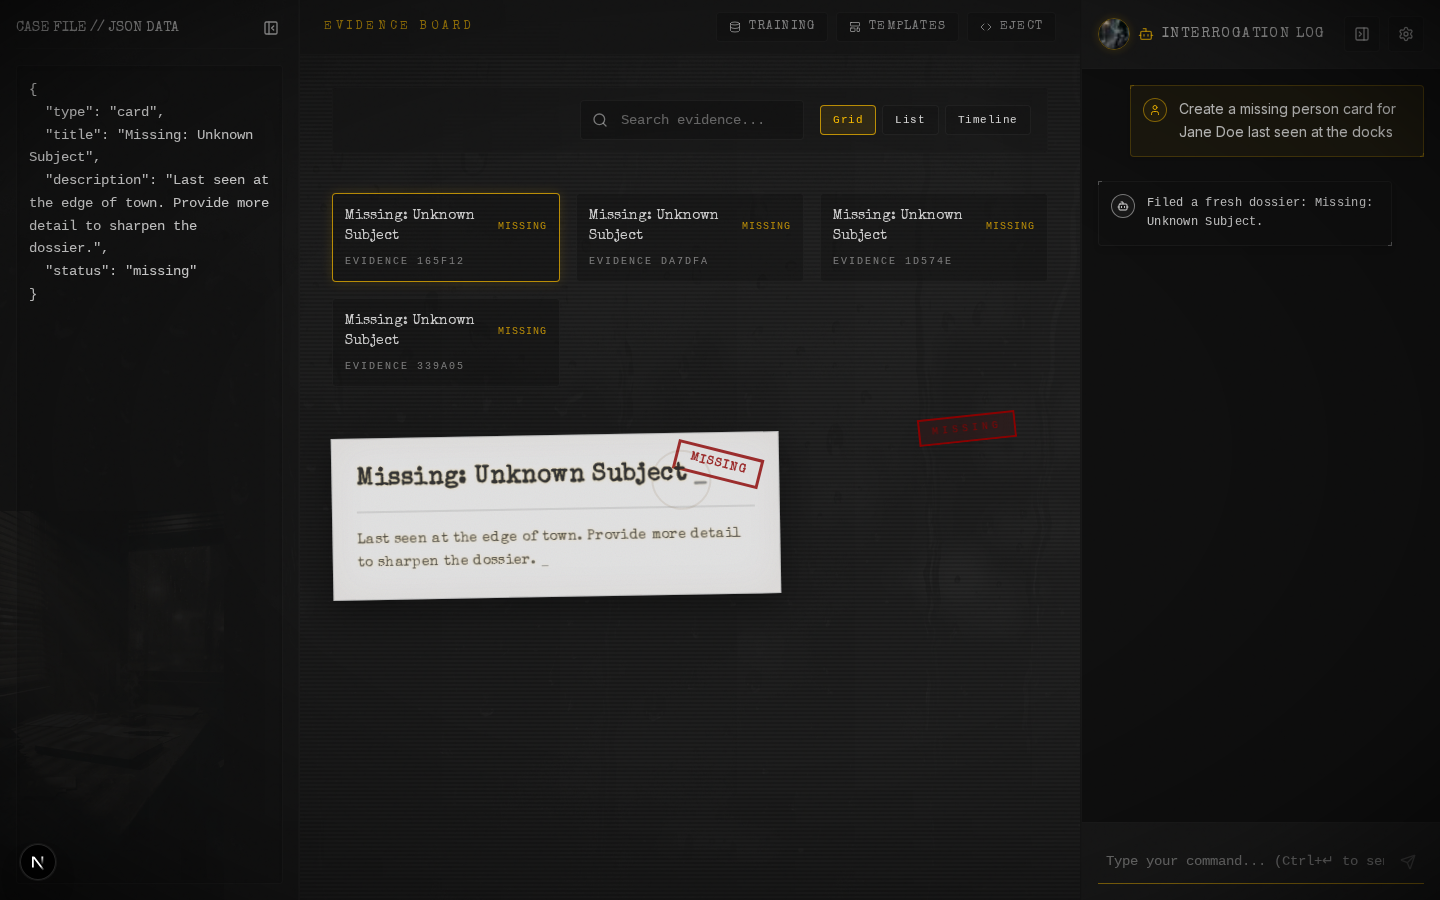
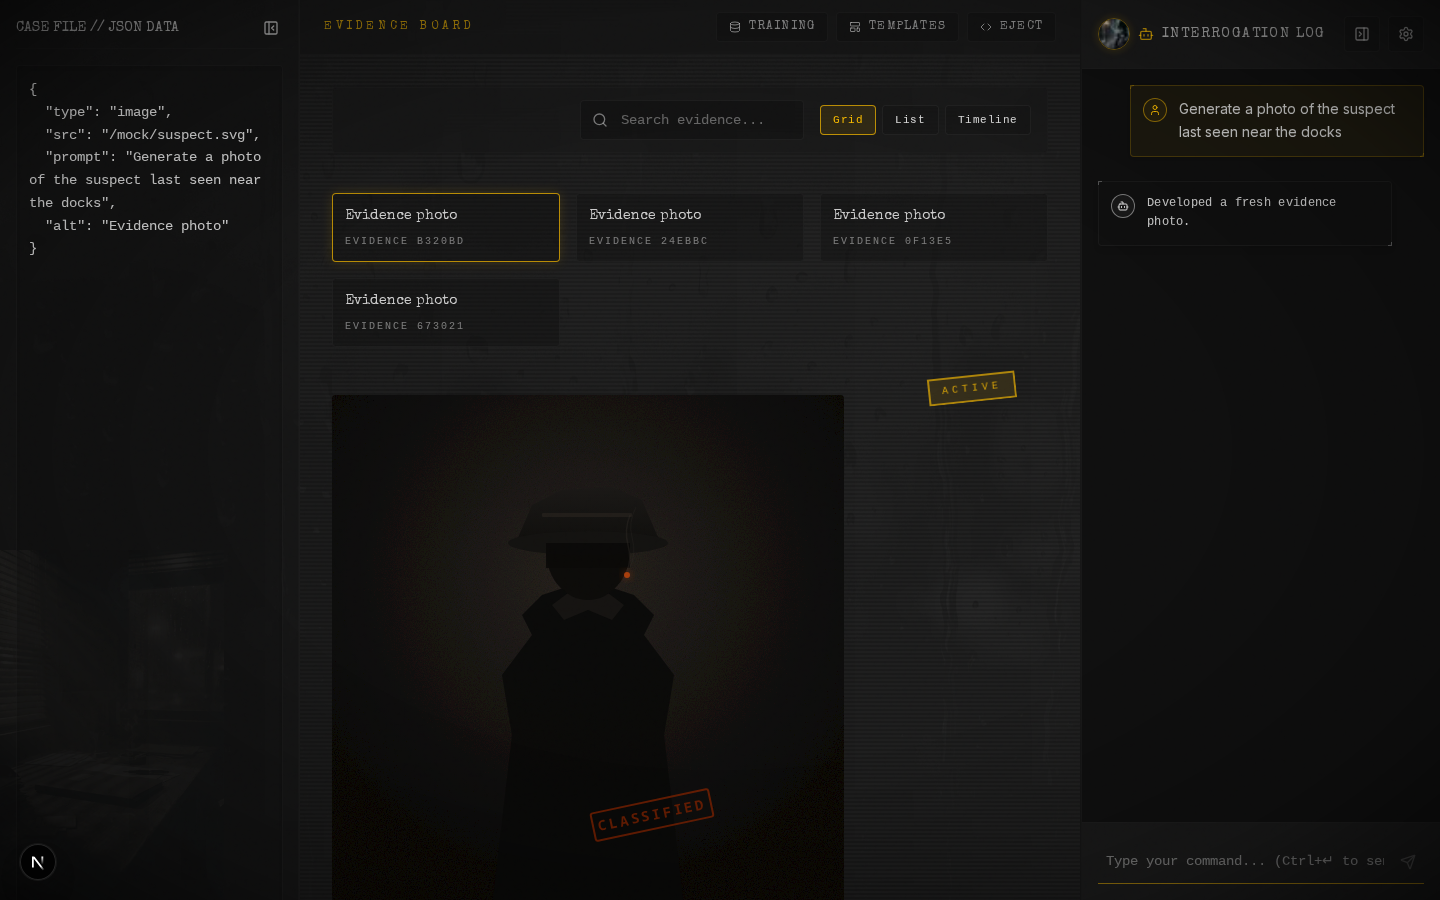
fix: use suspect image in first README screenshot
Add noir silhouette SVG placeholder and wire mock image endpoint to
serve it. First screenshot now shows a generated suspect photo on the
evidence board instead of a card.

diff --git a/scripts/take-screenshots.ts b/scripts/take-screenshots.ts
@@ -50,8 +50,8 @@ async function main() {
   await page.waitForSelector('[data-testid="desk-layout"]');
   await page.waitForTimeout(500);
 
-  // 1. Send a card prompt so the board has content
-  await sendChat(page, "Create a missing person card for Jane Doe last seen at the docks");
+  // 1. Send an image prompt so the board shows a suspect photo
+  await sendChat(page, "Generate a photo of the suspect last seen near the docks");
   await waitForAssistantMessages(page, 1);
 
   // Capture workspace with generated component visible

diff --git a/src/app/api/chat/route.ts b/src/app/api/chat/route.ts
@@ -130,6 +130,7 @@ function createMockComponent(prompt: string): A2UIInput {
   if (lower.includes("image") || lower.includes("photo")) {
     return {
       type: "image",
+      src: "/mock/suspect.svg",
       prompt: normalized.length > 0 ? normalized : "Noir alley evidence shot",
       alt: "Evidence photo",
     };
